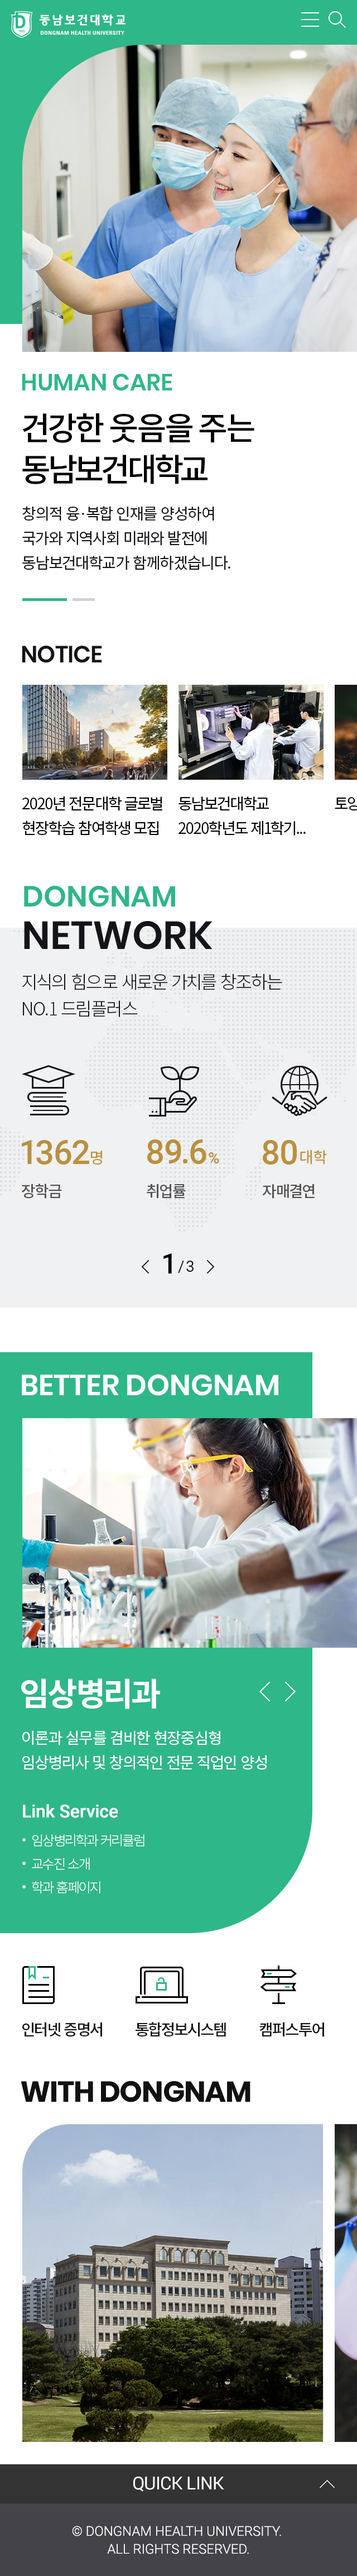
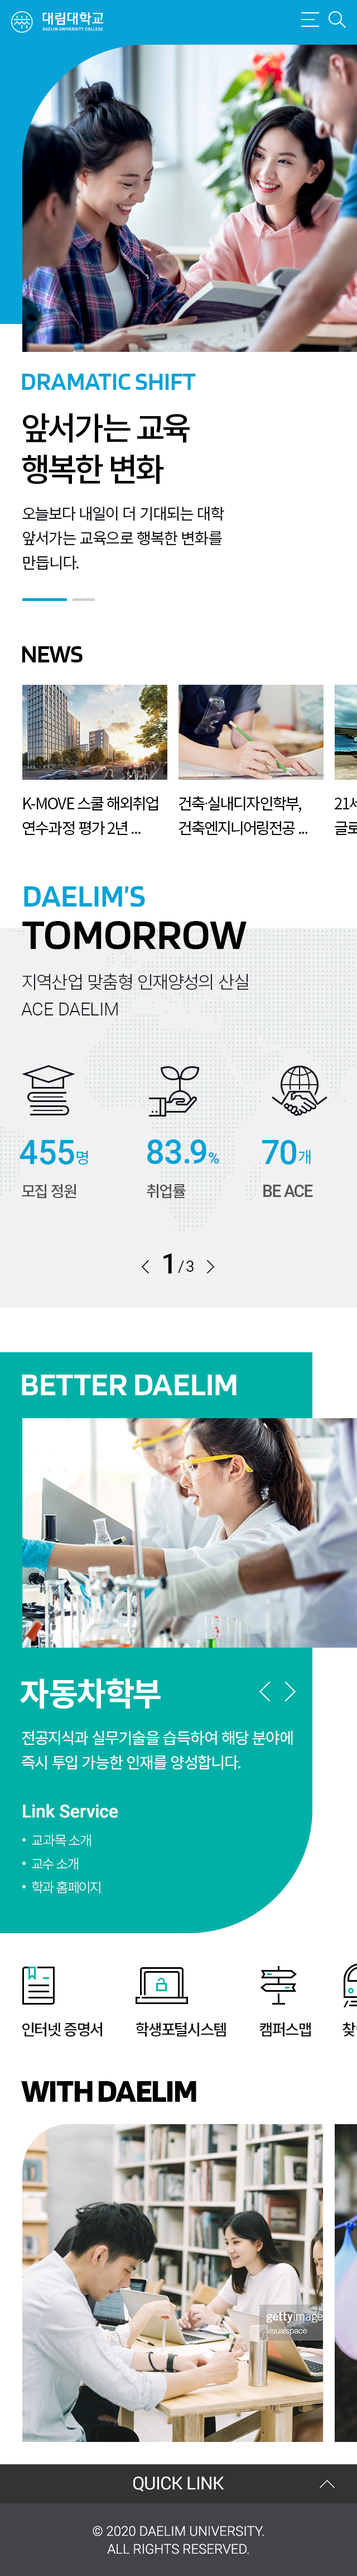
200519 last

diff --git a/kor_b_mobile.html b/kor_b_mobile.html
@@ -2,13 +2,14 @@
 <!DOCTYPE html>
 <html lang="ko">
 <head>
+<!--[if IE 8]>    <html lang="kor" class="ie8"> <![endif]-->
 <meta charset="utf-8">
 <meta name="viewport" content="width=device-width, initial-scale=1.0">
 <meta http-equiv="X-UA-Compatible" content="ie=edge">
-<title>동남보건대학교</title>
-<script type="text/javascript" src="js/jquery-2.2.1.min.js"></script>
+<title>대림대학교</title>
+<script src="http://code.jquery.com/jquery-1.9.0.js"></script>
+<script src="http://code.jquery.com/jquery-migrate-1.2.1.js"></script>
 <script type="text/javascript" src="js/jquery.easing.1.3.js"></script>
-
 <script type="text/javascript" src="js/slick/slick.min.js"></script>
 <link rel="stylesheet" type="text/css" href="js/slick/slick.css"/>
 
@@ -18,10 +19,14 @@
 <link rel="stylesheet" type="text/css" href="css/kor_a.css" />
 
 <script>
-$(function(){
-    $("#mobileBox>section").mCustomScrollbar();
-});
+    $(function () {
+        if ($('html').hasClass('ie8')) {
+        } else {
+            $("#mobileBox>.section").mCustomScrollbar();
+        }
+    });
 </script>
+<style>
 <style>
 #mobileBox>section .logo {width:150px;height:60px;}
 body {overflow-y:hidden}
@@ -30,10 +35,10 @@ body {overflow-y:hidden}
 <body class="type_mobile">
 
     <div id="mobileBox">
-        <section>
+        <div class="section">
             <a href="ipsi_b_main.html" class="logo"></a>
             <img src="img/kor_b/mobile_main.jpg" />
-        </section>
+        </div>
     </div>
 
 </body>

diff --git a/ipsi_b_mobile.html b/ipsi_b_mobile.html
@@ -21,7 +21,6 @@
 <script>
     $(function () {
         if ($('html').hasClass('ie8')) {
-
         } else {
             $("#mobileBox>.section").mCustomScrollbar();
         }
@@ -40,6 +39,7 @@ body {overflow-y:hidden}
             <img src="img/ipsi_b/mobile.jpg" />
         </div>
     </div>
+
 
 </body>
 </html>
